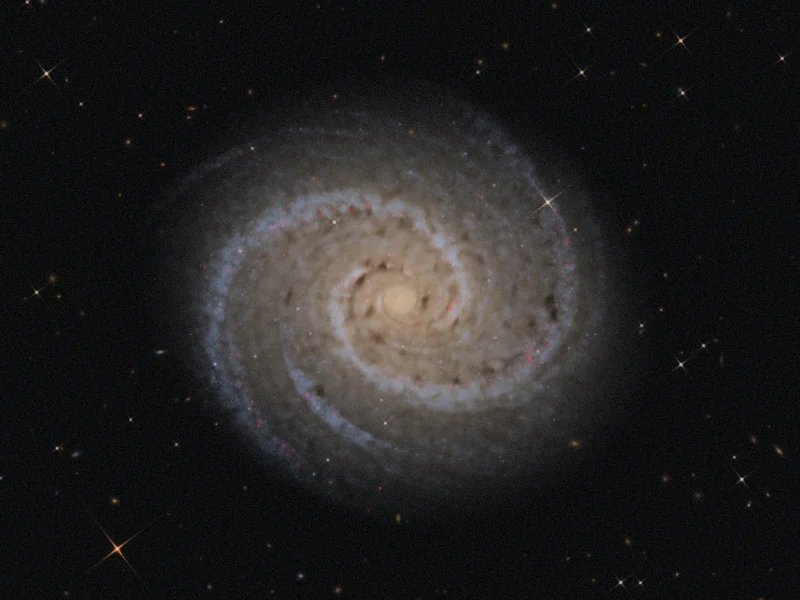
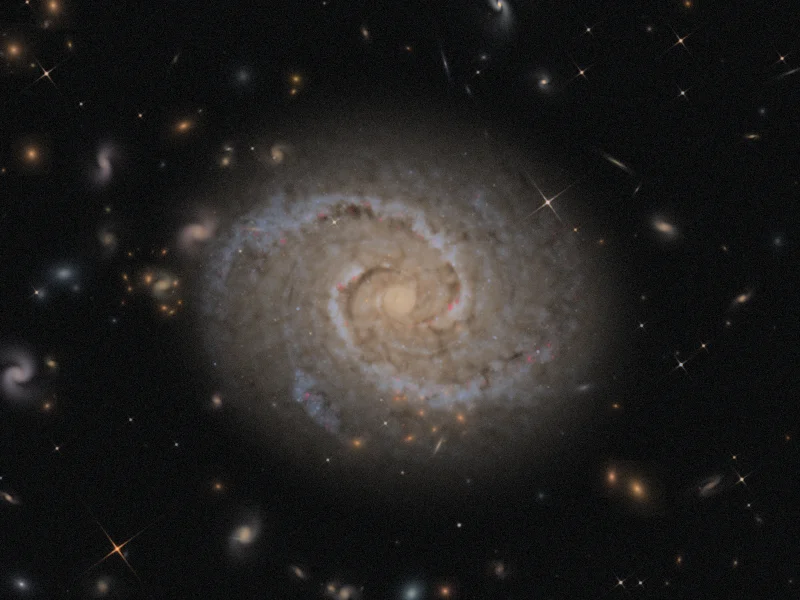
🐛 fix(galaxy-photos): ragged dust, irregular arms, visible background galaxies
- Dust height no longer varies per disk position, which drew vertical
  dust columns at high tilt. Extraplanar dust now comes from filaments
  that drift sideways with height, so it rises in tilted wisps.
- Young stars and gas stop short of the dust disk edge, so edge-on lanes
  stay dark instead of showing a blue midplane line.
- Arm paths get a radial pitch drift and mid-scale wobble, so they kink
  and wander instead of tracing a perfect log spiral.
- Background galaxies are bigger and brighter, follow a steep size
  distribution, cluster in groups, and resolved spirals show a bulge
  and arms.

diff --git a/apps/galaxy-photos/js/sky.js b/apps/galaxy-photos/js/sky.js
@@ -32,24 +32,46 @@ function fieldStars(random, amount) {
   return stars;
 }
 
+function backgroundGalaxy(random, place, kind) {
+  const nearness = random.next() ** 3.2;
+  const halfLight = 0.0011 + 0.024 * nearness * random.between(0.6, 1.2);
+  const index = kind === 'elliptical' ? 4 : random.pick([[1, 4], [2, 1]]);
+  const axisRatio = kind === 'elliptical' ? random.between(0.55, 1) : Math.max(0.12, Math.abs(Math.cos(random.between(0, Math.PI / 2))));
+  const scale = halfLight / (2 * index - 0.327) ** index;
+  const surfaceBrightness = random.between(0.04, 0.28) * (0.5 + nearness);
+  const reddening = 1 - nearness;
+  const colour = {
+    elliptical: [1, random.between(0.72, 0.82) - 0.15 * reddening, random.between(0.5, 0.6) - 0.2 * reddening],
+    spiral: [random.between(0.85, 1), random.between(0.82, 0.92) - 0.12 * reddening, random.between(0.75, 0.95) - 0.25 * reddening],
+    starburst: [random.between(0.7, 0.85), random.between(0.8, 0.92), 1],
+  }[kind];
+  const spiralDetail = kind === 'spiral' && halfLight > 0.004;
+  return {
+    place,
+    flux: surfaceBrightness * 2 * Math.PI * axisRatio * (halfLight / 1.68) ** 2,
+    colour: colour.map((channel) => Math.max(0.15, channel)),
+    shape: [scale, axisRatio, random.between(0, Math.PI), index],
+    detail: [
+      spiralDetail ? random.between(0.35, 0.8) : 0,
+      kind === 'elliptical' ? 0 : random.between(0.05, kind === 'starburst' ? 0.1 : 0.35),
+      random.between(2, 4.5) * (random.next() < 0.5 ? -1 : 1),
+      random.between(0, 2 * Math.PI),
+    ],
+  };
+}
+
 function backgroundGalaxies(random, amount) {
   const count = Math.round(MOST_BACKGROUND_GALAXIES * amount ** 1.4);
+  const groups = Array.from({ length: random.integer(0, 3) }, () => [random.between(-0.5, 0.5) * ASPECT, random.between(-0.5, 0.5)]);
   const galaxies = [];
   for (let i = 0; i < count; i++) {
-    const distance = random.next() ** 0.6;
-    const halfLight = 0.0009 + 0.006 * (1 - distance) ** 2.5 * random.between(0.4, 1.2);
-    const index = random.pick([[1, 6], [2, 2], [4, 2]]);
-    const scale = halfLight / (2 * index - 0.327) ** index;
-    const starbursting = random.next() < 0.22;
-    const colour = starbursting
-      ? [random.between(0.7, 0.9), random.between(0.8, 0.95), 1]
-      : [1, random.between(0.6, 0.85) - 0.2 * distance, random.between(0.35, 0.6) - 0.25 * distance];
-    galaxies.push({
-      place: [random.between(-0.5, 0.5) * ASPECT, random.between(-0.5, 0.5)],
-      flux: 0.000005 * (1 - distance + 0.08) ** 3 * random.between(0.4, 2.5) * (index === 4 ? 1.6 : 1),
-      colour: colour.map((channel) => Math.max(0.15, channel)),
-      shape: [scale, index === 4 ? random.between(0.6, 1) : random.between(0.2, 1), random.between(0, Math.PI), index],
-    });
+    const grouped = groups.length && random.next() < 0.25;
+    const centre = grouped ? groups[random.integer(0, groups.length - 1)] : null;
+    const place = centre
+      ? [centre[0] + random.normal() * 0.035, centre[1] + random.normal() * 0.035]
+      : [random.between(-0.5, 0.5) * ASPECT, random.between(-0.5, 0.5)];
+    const kind = grouped ? random.pick([['elliptical', 3], ['spiral', 1]]) : random.pick([['spiral', 5], ['elliptical', 2], ['starburst', 2]]);
+    galaxies.push(backgroundGalaxy(random, place, kind));
   }
   return galaxies;
 }
@@ -73,13 +95,14 @@ function globularClusters(random, settings) {
       flux: 0.0000015 * 10 ** (-0.4 * magnitudeSpread) * (settings.size / 60) ** 2,
       colour: blackbodyColour(random.between(4600, 5600)),
       shape: [0.00008, 1, 0, 1],
+      detail: [0, 0, 0, 0],
     });
   }
   return clusters;
 }
 
 const packStars = (stars) => new Float32Array(stars.flatMap(({ place, flux, colour }) => [...place, flux, ...colour]));
-const packBlobs = (blobs) => new Float32Array(blobs.flatMap(({ place, flux, colour, shape }) => [...place, flux, ...colour, ...shape]));
+const packBlobs = (blobs) => new Float32Array(blobs.flatMap(({ place, flux, colour, shape, detail }) => [...place, flux, ...colour, ...shape, ...detail]));
 
 export function buildSky(settings) {
   const random = createRandom(settings.seed * 7 + 3);

diff --git a/apps/galaxy-photos/js/shaders/map.js b/apps/galaxy-photos/js/shaders/map.js
@@ -47,14 +47,16 @@ void main() {
   float theta = atan(p.y, p.x);
   float armStart = max(uBarLength, 0.6 * uDiskScale * 0.5);
 
-  float winding = log(max(r, 0.15) / armStart) / tan(uPitch);
+  float logRadius = log(max(r, 0.15) / armStart);
+  float pitchDrift = 0.9 * fbm(vec2(logRadius * 1.8, 3.1), uSeed + 17u, 3);
+  float winding = logRadius / tan(uPitch) + pitchDrift;
   vec2 unwound = turn(-winding) * p;
   vec2 unwoundWarped = unwound + 1.1 * vec2(fbm(p * 0.45, uSeed + 15u, 3), fbm(p * 0.45, uSeed + 16u, 3));
   float featherWinding = log(max(r, 0.15) / armStart) / tan(min(uPitch * 2.6, 1.25));
   vec2 featherUnwound = turn(-featherWinding) * p;
 
   vec2 warpedP = p + 1.2 * vec2(fbm(p * 0.09, uSeed + 11u, 3), fbm(p * 0.09, uSeed + 12u, 3));
-  float armWobble = (0.55 * fbm(warpedP * 0.07, uSeed + 13u, 3) + 0.22 * fbm(warpedP * 0.35, uSeed + 14u, 3)) * (0.4 + uFlocculence);
+  float armWobble = 0.55 * fbm(warpedP * 0.07, uSeed + 13u, 3) * (0.4 + uFlocculence) + 0.4 * fbm(warpedP * 0.17, uSeed + 18u, 3) + 0.2 * fbm(warpedP * 0.35, uSeed + 14u, 3) * (0.5 + uFlocculence);
   float phase = uArms * (theta - winding + armWobble);
 
   float alongArm = fbm(unwound * 0.16, uSeed + 21u, 4);
@@ -78,6 +80,7 @@ void main() {
   float dustArms = mix(grandDust, floccDust, uFlocculence);
 
   float outerEdge = 1.0 - smoothstep(uRmax * 0.62, uRmax * 0.95, r);
+  float youngOuterEdge = 1.0 - smoothstep(uRmax * 0.4, uRmax * 0.8, r);
   float innerDust = smoothstep(armStart * 0.85, armStart * 1.2, r);
 
   float innerYoung = smoothstep(armStart * 0.8, armStart * 1.3, r);
@@ -86,14 +89,14 @@ void main() {
   float oldDisk = exp(-r / uDiskScale) * oldModulation * oldGrain * outerEdge;
 
   float mottle = 0.35 + 1.3 * smoothstep(-0.4, 0.5, fbm(warpedP * 1.6, uSeed + 41u, 4));
-  float young = uYoung * exp(-r / (uDiskScale * 1.25)) * innerYoung * outerEdge * (0.08 + youngArms) * mottle;
+  float young = uYoung * exp(-r / (uDiskScale * 1.25)) * innerYoung * youngOuterEdge * (0.08 + youngArms) * mottle;
 
   float complexes = clumps(p, 0.55, 0.35, 2.0, uSeed + 51u);
   float knots = clumps(p, 0.13, 0.32, 3.5, uSeed + 53u);
   float gasMask = smoothstep(0.08, 0.6, gasArms + 0.25 * fbm(warpedP * 0.5, uSeed + 55u, 3));
-  float gas = uGas * exp(-r / (uDiskScale * 1.3)) * innerYoung * outerEdge * gasMask * complexes * knots * 16.0;
+  float gas = uGas * exp(-r / (uDiskScale * 1.3)) * innerYoung * youngOuterEdge * gasMask * complexes * knots * 16.0;
 
-  float clusters = uYoung * clumps(p, 0.09, 0.22, 7.0, uSeed + 61u) * smoothstep(0.04, 0.5, youngArms) * innerYoung * outerEdge * exp(-r / (uDiskScale * 1.4));
+  float clusters = uYoung * clumps(p, 0.09, 0.22, 7.0, uSeed + 61u) * smoothstep(0.04, 0.5, youngArms) * innerYoung * youngOuterEdge * exp(-r / (uDiskScale * 1.4));
 
   float filaments = ridged(warpedP * 0.75, uSeed + 71u, 5);
   float holes = smoothstep(-0.25, 0.25, fbm(warpedP * 0.5, uSeed + 73u, 4));
@@ -110,9 +113,9 @@ void main() {
   float dust = uDust * exp(-r / (uDiskScale * 1.5)) * innerDust * outerEdge * dustArmsTotal * mix(0.2, 1.8, filaments) * mix(0.55, 1.0, holes);
   dust += uDust * (2.5 * barLanes + 0.25 * nuclearDust * (1.0 - innerDust)) * mix(0.4, 1.4, filaments);
 
-  float chimneys = smoothstep(0.1, 0.6, fbm(p * 1.1, uSeed + 81u, 3));
+  float extraplanarDust = pow(ridged(warpedP * 0.9, uSeed + 81u, 4), 3.0) * smoothstep(-0.2, 0.3, fbm(p * 0.6, uSeed + 83u, 3));
 
   outDisk = vec4(oldDisk, young, gas, dust);
-  outDetail = vec4(clusters, chimneys, 0.0, 0.0);
+  outDetail = vec4(clusters, extraplanarDust, 0.0, 0.0);
 }
 `;

diff --git a/apps/galaxy-photos/js/shaders/points.js b/apps/galaxy-photos/js/shaders/points.js
@@ -165,6 +165,7 @@ layout(location = 0) in vec2 aPlace;
 layout(location = 1) in float aFlux;
 layout(location = 2) in vec3 aColour;
 layout(location = 3) in vec4 aShape;
+layout(location = 4) in vec4 aDetail;
 
 uniform vec2 uResolution;
 uniform float uFluxScale;
@@ -174,6 +175,7 @@ out vec2 vOffset;
 out float vFlux;
 out vec3 vColour;
 out vec4 vShape;
+out vec4 vDetail;
 
 ${QUAD_CORNER}
 
@@ -192,6 +194,7 @@ void main() {
   vFlux = aFlux * uFluxScale;
   vColour = aColour;
   vShape = vec4(scale, seenAxisRatio, aShape.z, index);
+  vDetail = vec4(aDetail.x * smoothstep(3.0, 8.0, seenHalfLight), aDetail.yzw);
   gl_Position = toClip(centre + vOffset);
 }
 `;
@@ -203,18 +206,35 @@ in vec2 vOffset;
 in float vFlux;
 in vec3 vColour;
 in vec4 vShape;
+in vec4 vDetail;
 out vec4 outColour;
+
+uniform float uPsfSigma;
+
+const vec3 BULGE_COLOUR = vec3(1.0, 0.8, 0.58);
 
 void main() {
   float scale = vShape.x;
   float axisRatio = vShape.y;
   float angle = vShape.z;
   float index = vShape.w;
+  float armAmount = vDetail.x;
+  float bulgeShare = vDetail.y;
+  float twist = vDetail.z;
+  float armAngle = vDetail.w;
+
   vec2 along = vec2(cos(angle), sin(angle));
   vec2 local = vec2(dot(vOffset, along), dot(vOffset, vec2(-along.y, along.x)) / axisRatio);
-  float profile = exp(-pow(length(local) / scale, 1.0 / index));
+  float radius = length(local) / scale;
   float gammaTwoN = index < 1.5 ? 1.0 : index < 3.0 ? 6.0 : 5040.0;
-  float total = 6.2831853 * axisRatio * scale * scale * index * gammaTwoN;
-  outColour = vec4(vColour * vFlux * profile / total, 1.0);
+  float diskTotal = 6.2831853 * axisRatio * scale * scale * index * gammaTwoN;
+  float disk = exp(-pow(radius, 1.0 / index)) / diskTotal;
+
+  float arms = 1.0 + armAmount * cos(2.0 * atan(local.y, local.x) - twist * log(radius + 0.3) + armAngle) * smoothstep(0.3, 1.2, radius);
+  float bulgeSigma = max(0.45 * scale, uPsfSigma);
+  float bulge = exp(-dot(local, local) / (2.0 * bulgeSigma * bulgeSigma)) / (6.2831853 * axisRatio * bulgeSigma * bulgeSigma);
+
+  vec3 light = vColour * (1.0 - bulgeShare) * disk * max(arms, 0.0) + BULGE_COLOUR * bulgeShare * bulge;
+  outColour = vec4(vFlux * light, 1.0);
 }
 `;

diff --git a/apps/galaxy-photos/js/shaders/march.js b/apps/galaxy-photos/js/shaders/march.js
@@ -107,7 +107,7 @@ void main() {
 
   float oldHeight = uThickness;
   float youngHeight = uThickness * 0.3;
-  float dustHeight = uThickness * 0.5;
+  float dustHeight = uThickness * 0.45;
 
   vec3 light = vec3(0.0);
   vec3 through = vec3(1.0);
@@ -126,8 +126,10 @@ void main() {
 
     float oldShape = 0.82 * sech2(p.z / oldHeight) / (2.0 * oldHeight) + 0.18 * sech2(p.z / (3.2 * oldHeight)) / (6.4 * oldHeight);
     float youngShape = sech2(p.z / youngHeight) / (2.0 * youngHeight);
-    float chimneyHeight = dustHeight * (0.7 + 2.2 * detail.g);
-    float dustShape = exp(-abs(p.z) / chimneyHeight) / (2.0 * dustHeight);
+    float lift = p.z / dustHeight;
+    vec2 driftedPlace = p.xy + dustHeight * (lift * vec2(0.8, -0.5) + lift * abs(lift) * vec2(-0.3, 0.45));
+    float filaments = texture(uDetail, driftedPlace / (2.0 * uRmax) + 0.5).g;
+    float dustShape = (exp(-abs(lift)) * (0.6 + 0.8 * filaments) + 0.7 * filaments * exp(-abs(lift) / 1.8)) / (2.0 * dustHeight);
 
     vec3 emission = OLD_DISK_COLOUR * (uDiskLight * disk.r * oldShape)
       + YOUNG_COLOUR * (uYoungLight * disk.g * youngShape)

diff --git a/apps/galaxy-photos/js/renderer.js b/apps/galaxy-photos/js/renderer.js
@@ -12,7 +12,7 @@ const MARCH_STEPS = 176;
 const MARCH_PIXELS_PER_STRIP = 200000;
 const SPECKLES_PER_PIXEL = 0.14;
 const STAR_FLOATS = 6;
-const BLOB_FLOATS = 10;
+const BLOB_FLOATS = 14;
 
 function exposureOf(settings) {
   return 0.55 * 10 ** ((settings.exposure - 50) / 28);
@@ -49,7 +49,7 @@ export function createRenderer(canvas) {
   const blobVao = gl.createVertexArray();
   gl.bindVertexArray(blobVao);
   gl.bindBuffer(gl.ARRAY_BUFFER, blobBuffer);
-  describeAttributes(gl, [2, 1, 3, 4], BLOB_FLOATS);
+  describeAttributes(gl, [2, 1, 3, 4, 4], BLOB_FLOATS);
   gl.bindVertexArray(null);
 
   const maps = createTarget(gl, MAP_SIZE, MAP_SIZE, 2);
